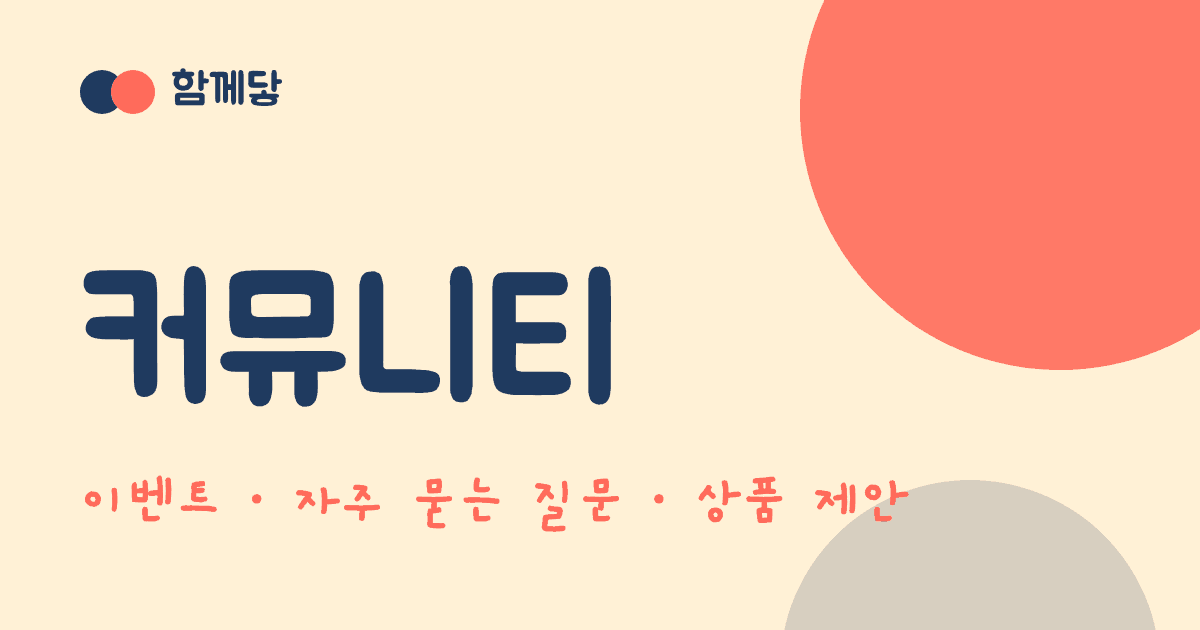
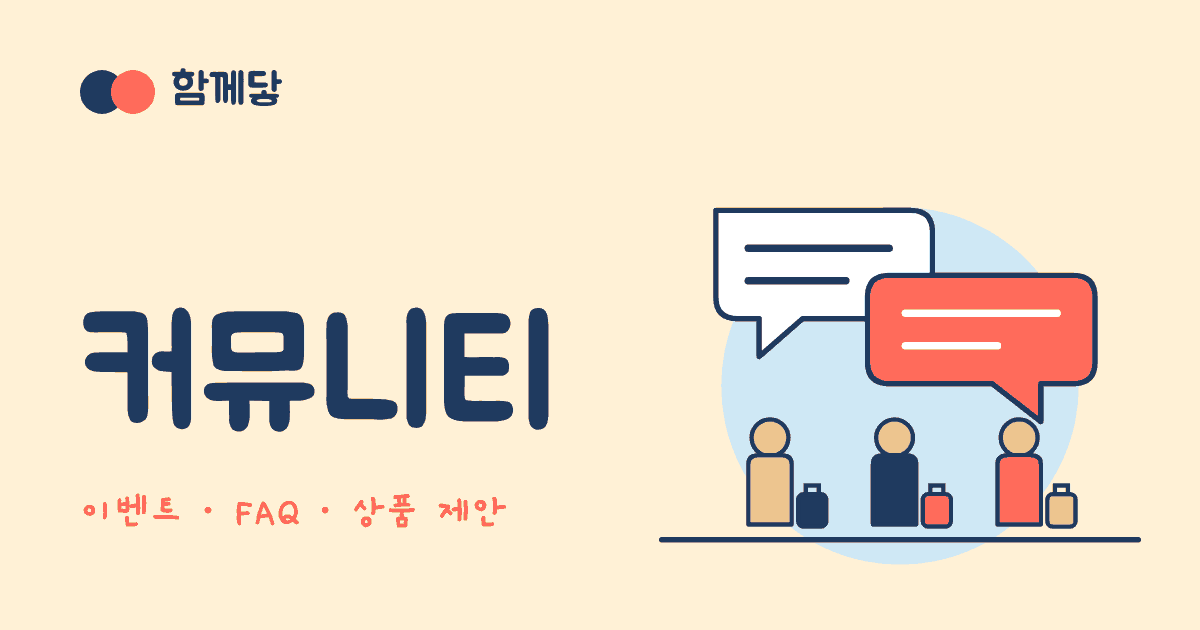
카테고리별 여행 일러스트 적용 (페이지 머리말·공유 이미지)
Claude-Session: https://claude.ai/code/session_01ESWy9A2QB4VcRDNmvhU2tg

diff --git a/outputs/homepage/index.html b/outputs/homepage/index.html
@@ -80,11 +80,14 @@
   </header>
   <main>
     <section class="intro" id="intro">
-      <div class="wrap">
+      <div class="wrap hero">
+        <div class="hero-text">
         <p class="eyebrow" data-i18n="nav_intro">소개</p>
         <h1 data-i18n-html="h1"><span>혼자 떠나도,</span><br><em>마음은 닿는다</em></h1>
         <p class="lead" data-i18n="lead">함께닿은 혼자 여행 가고 싶지만 막상 혼자는 어색하고 외로운 20대 중후반을, 성향이 맞는 사람들과 안심하고 어울리게 해 주는 2030 소셜링 투어 서비스예요.</p>
         <a class="btn big" href="https://hamkkedat-landing.vercel.app" target="_blank" rel="noopener" data-i18n="cta">출시 소식 먼저 받기</a>
+        </div>
+        <img class="hero-art" src="art/hero-index.svg" alt="" width="480" height="360" loading="eager">
       </div>
     </section>
 

diff --git a/outputs/homepage/src/pages/index.html b/outputs/homepage/src/pages/index.html
@@ -1,9 +1,12 @@
     <section class="intro" id="intro">
-      <div class="wrap">
+      <div class="wrap hero">
+        <div class="hero-text">
         <p class="eyebrow" data-i18n="nav_intro">소개</p>
         <h1 data-i18n-html="h1"><span>혼자 떠나도,</span><br><em>마음은 닿는다</em></h1>
         <p class="lead" data-i18n="lead">함께닿은 혼자 여행 가고 싶지만 막상 혼자는 어색하고 외로운 20대 중후반을, 성향이 맞는 사람들과 안심하고 어울리게 해 주는 2030 소셜링 투어 서비스예요.</p>
         <a class="btn big" href="https://hamkkedat-landing.vercel.app" target="_blank" rel="noopener" data-i18n="cta">출시 소식 먼저 받기</a>
+        </div>
+        <img class="hero-art" src="art/hero-index.svg" alt="" width="480" height="360" loading="eager">
       </div>
     </section>
 

diff --git a/outputs/homepage/common.css b/outputs/homepage/common.css
@@ -205,3 +205,16 @@ footer { padding: 24px 0; text-align: center; font-size: .85rem; opacity: .8; }
 
 /* hidden 속성이 display 지정보다 항상 우선하도록 */
 [hidden] { display: none !important; }
+
+/* 페이지 일러스트 */
+.hero { display: grid; gap: 20px; align-items: center; }
+.hero-art { width: 100%; max-width: 300px; height: auto; justify-self: center; }
+.hero-text .lead { margin-top: 12px; }
+.page-head { padding: 36px 0 28px; background: #fff; border-radius: 0 0 40px 40px; margin-bottom: 8px; }
+.page-head .hero-art { max-width: 260px; }
+@media (min-width: 720px) {
+  .hero { grid-template-columns: 1.15fr .85fr; gap: 32px; }
+  .hero-art { max-width: 440px; }
+  .page-head .hero-art { max-width: 340px; }
+  .page-head { padding: 48px 0 40px; }
+}

diff --git a/outputs/homepage/trips.html b/outputs/homepage/trips.html
@@ -80,9 +80,13 @@
   </header>
   <main>
     <section class="page-head">
-      <div class="wrap">
+      <div class="wrap hero">
+        <div class="hero-text">
         <p class="eyebrow" data-i18n="g_trips">여행 신청</p>
         <h1 data-i18n="g_trips">여행 신청</h1>
+        <p class="lead" data-i18n="d_trips">함께닿의 진행 중인 여행, 오픈 예정 여행, 진행했던 여행을 확인하세요.</p>
+        </div>
+        <img class="hero-art" src="art/hero-trips.svg" alt="" width="480" height="360" loading="eager">
       </div>
     </section>
 

diff --git a/outputs/homepage/community.html b/outputs/homepage/community.html
@@ -80,9 +80,13 @@
   </header>
   <main>
     <section class="page-head">
-      <div class="wrap">
+      <div class="wrap hero">
+        <div class="hero-text">
         <p class="eyebrow" data-i18n="g_community">커뮤니티</p>
         <h1 data-i18n="g_community">커뮤니티</h1>
+        <p class="lead" data-i18n="d_community">이벤트, 자주 묻는 질문, 상품 제안을 한곳에서 확인하세요.</p>
+        </div>
+        <img class="hero-art" src="art/hero-community.svg" alt="" width="480" height="360" loading="eager">
       </div>
     </section>
 

diff --git a/outputs/homepage/reviews.html b/outputs/homepage/reviews.html
@@ -80,9 +80,13 @@
   </header>
   <main>
     <section class="page-head">
-      <div class="wrap">
+      <div class="wrap hero">
+        <div class="hero-text">
         <p class="eyebrow" data-i18n="g_reviews">여행 후기</p>
         <h1 data-i18n="g_reviews">여행 후기</h1>
+        <p class="lead" data-i18n="d_reviews">함께닿 여행을 다녀온 사람들의 후기를 모았어요.</p>
+        </div>
+        <img class="hero-art" src="art/hero-reviews.svg" alt="" width="480" height="360" loading="eager">
       </div>
     </section>
 

diff --git a/outputs/homepage/src/pages/trips.html b/outputs/homepage/src/pages/trips.html
@@ -1,7 +1,11 @@
     <section class="page-head">
-      <div class="wrap">
+      <div class="wrap hero">
+        <div class="hero-text">
         <p class="eyebrow" data-i18n="g_trips">여행 신청</p>
         <h1 data-i18n="g_trips">여행 신청</h1>
+        <p class="lead" data-i18n="d_trips">함께닿의 진행 중인 여행, 오픈 예정 여행, 진행했던 여행을 확인하세요.</p>
+        </div>
+        <img class="hero-art" src="art/hero-trips.svg" alt="" width="480" height="360" loading="eager">
       </div>
     </section>
 

diff --git a/outputs/homepage/src/pages/community.html b/outputs/homepage/src/pages/community.html
@@ -1,7 +1,11 @@
     <section class="page-head">
-      <div class="wrap">
+      <div class="wrap hero">
+        <div class="hero-text">
         <p class="eyebrow" data-i18n="g_community">커뮤니티</p>
         <h1 data-i18n="g_community">커뮤니티</h1>
+        <p class="lead" data-i18n="d_community">이벤트, 자주 묻는 질문, 상품 제안을 한곳에서 확인하세요.</p>
+        </div>
+        <img class="hero-art" src="art/hero-community.svg" alt="" width="480" height="360" loading="eager">
       </div>
     </section>
 

diff --git a/outputs/homepage/src/pages/reviews.html b/outputs/homepage/src/pages/reviews.html
@@ -1,7 +1,11 @@
     <section class="page-head">
-      <div class="wrap">
+      <div class="wrap hero">
+        <div class="hero-text">
         <p class="eyebrow" data-i18n="g_reviews">여행 후기</p>
         <h1 data-i18n="g_reviews">여행 후기</h1>
+        <p class="lead" data-i18n="d_reviews">함께닿 여행을 다녀온 사람들의 후기를 모았어요.</p>
+        </div>
+        <img class="hero-art" src="art/hero-reviews.svg" alt="" width="480" height="360" loading="eager">
       </div>
     </section>
 

diff --git a/outputs/homepage/contact.html b/outputs/homepage/contact.html
@@ -80,9 +80,13 @@
   </header>
   <main>
     <section class="page-head">
-      <div class="wrap">
+      <div class="wrap hero">
+        <div class="hero-text">
         <p class="eyebrow" data-i18n="g_contact">연락하기</p>
         <h1 data-i18n="g_contact">연락하기</h1>
+        <p class="lead" data-i18n="d_contact">문의와 채용공고를 확인하세요.</p>
+        </div>
+        <img class="hero-art" src="art/hero-contact.svg" alt="" width="480" height="360" loading="eager">
       </div>
     </section>
 

diff --git a/outputs/homepage/src/pages/contact.html b/outputs/homepage/src/pages/contact.html
@@ -1,7 +1,11 @@
     <section class="page-head">
-      <div class="wrap">
+      <div class="wrap hero">
+        <div class="hero-text">
         <p class="eyebrow" data-i18n="g_contact">연락하기</p>
         <h1 data-i18n="g_contact">연락하기</h1>
+        <p class="lead" data-i18n="d_contact">문의와 채용공고를 확인하세요.</p>
+        </div>
+        <img class="hero-art" src="art/hero-contact.svg" alt="" width="480" height="360" loading="eager">
       </div>
     </section>
 

diff --git a/outputs/homepage/og.py b/outputs/homepage/og.py
@@ -15,9 +15,9 @@ NAVY, CORAL, CREAM = "#1F3A5F", "#FF6B5B", "#FFF1D6"
 # 파일명: (큰 제목, 한 줄 설명, 배경, 글자색, 포인트색)
 CARDS = {
     "og-image": ("함께닿", "혼자 떠나도, 마음은 닿는다", CREAM, NAVY, CORAL),
-    "og-trips": (ko["g_trips"], "새로운 사람들과 떠나는 소셜링 여행", NAVY, CREAM, CORAL),
+    "og-trips": (ko["g_trips"], "낯선 사람들과 떠나는 여행", NAVY, CREAM, CORAL),
     "og-reviews": (ko["g_reviews"], "다녀온 사람들의 진짜 이야기", CORAL, CREAM, NAVY),
-    "og-community": (ko["g_community"], "이벤트 · 자주 묻는 질문 · 상품 제안", CREAM, NAVY, CORAL),
+    "og-community": (ko["g_community"], "이벤트 · FAQ · 상품 제안", CREAM, NAVY, CORAL),
     "og-contact": (ko["g_contact"], "궁금한 건 언제든 물어보세요", NAVY, CREAM, CORAL),
 }
 
@@ -26,16 +26,14 @@ HTML = """<!doctype html><meta charset="utf-8"><style>
 @font-face{font-family:Gaegu;font-weight:700;src:url('%(f)s/Gaegu-Bold.ttf')}
 *{box-sizing:border-box;margin:0}
 body{width:1200px;height:630px;background:%(bg)s;position:relative;overflow:hidden;font-family:Jua}
-.c1,.c2{position:absolute;border-radius:50%%}
-.c1{width:520px;height:520px;right:-120px;top:-150px;background:%(ac)s;opacity:.9}
-.c2{width:380px;height:380px;right:40px;bottom:-230px;background:%(fg)s;opacity:.18}
+.art{position:absolute;right:40px;bottom:60px;width:520px;height:390px}
 .brand{position:absolute;left:80px;top:64px;display:flex;align-items:center;font-size:44px;color:%(fg)s}
 .dots{display:flex;margin-right:16px}.dots i{display:block;width:44px;height:44px;border-radius:50%%}
 .dots i:first-child{background:%(d1)s}.dots i:last-child{background:%(d2)s;margin-left:-13px}
-.main{position:absolute;left:80px;bottom:90px;max-width:900px}
+.main{position:absolute;left:80px;bottom:90px;max-width:560px}
 h1{font-weight:400;font-size:%(size)spx;line-height:1.1;color:%(fg)s}
-p{margin-top:24px;font-family:Gaegu;font-weight:700;font-size:58px;color:%(ac2)s}
-</style><div class="c1"></div><div class="c2"></div>
+p{margin-top:24px;font-family:Gaegu;font-weight:700;font-size:42px;color:%(ac2)s}
+</style><img class="art" src="%(art)s">
 <div class="brand"><span class="dots"><i></i><i></i></span>함께닿</div>
 <div class="main"><h1>%(t)s</h1><p>%(s)s</p></div>"""
 
@@ -51,7 +49,7 @@ with tempfile.TemporaryDirectory() as tmp:
         dark = bg != CREAM
         html = HTML % dict(
             f=fonts.as_uri(), bg=bg, fg=fg, ac=ac, t=t, s=s,
-            size=170 if len(t) <= 4 else 130,
+            size=150 if len(t) <= 4 else 112, art=(out / 'art' / ('hero-%s.svg' % name[3:].replace('image', 'index'))).as_uri(),
             d1=CREAM if dark else NAVY, d2=CORAL if bg != CORAL else NAVY,
             ac2=CREAM if bg == CORAL else CORAL,
         )
